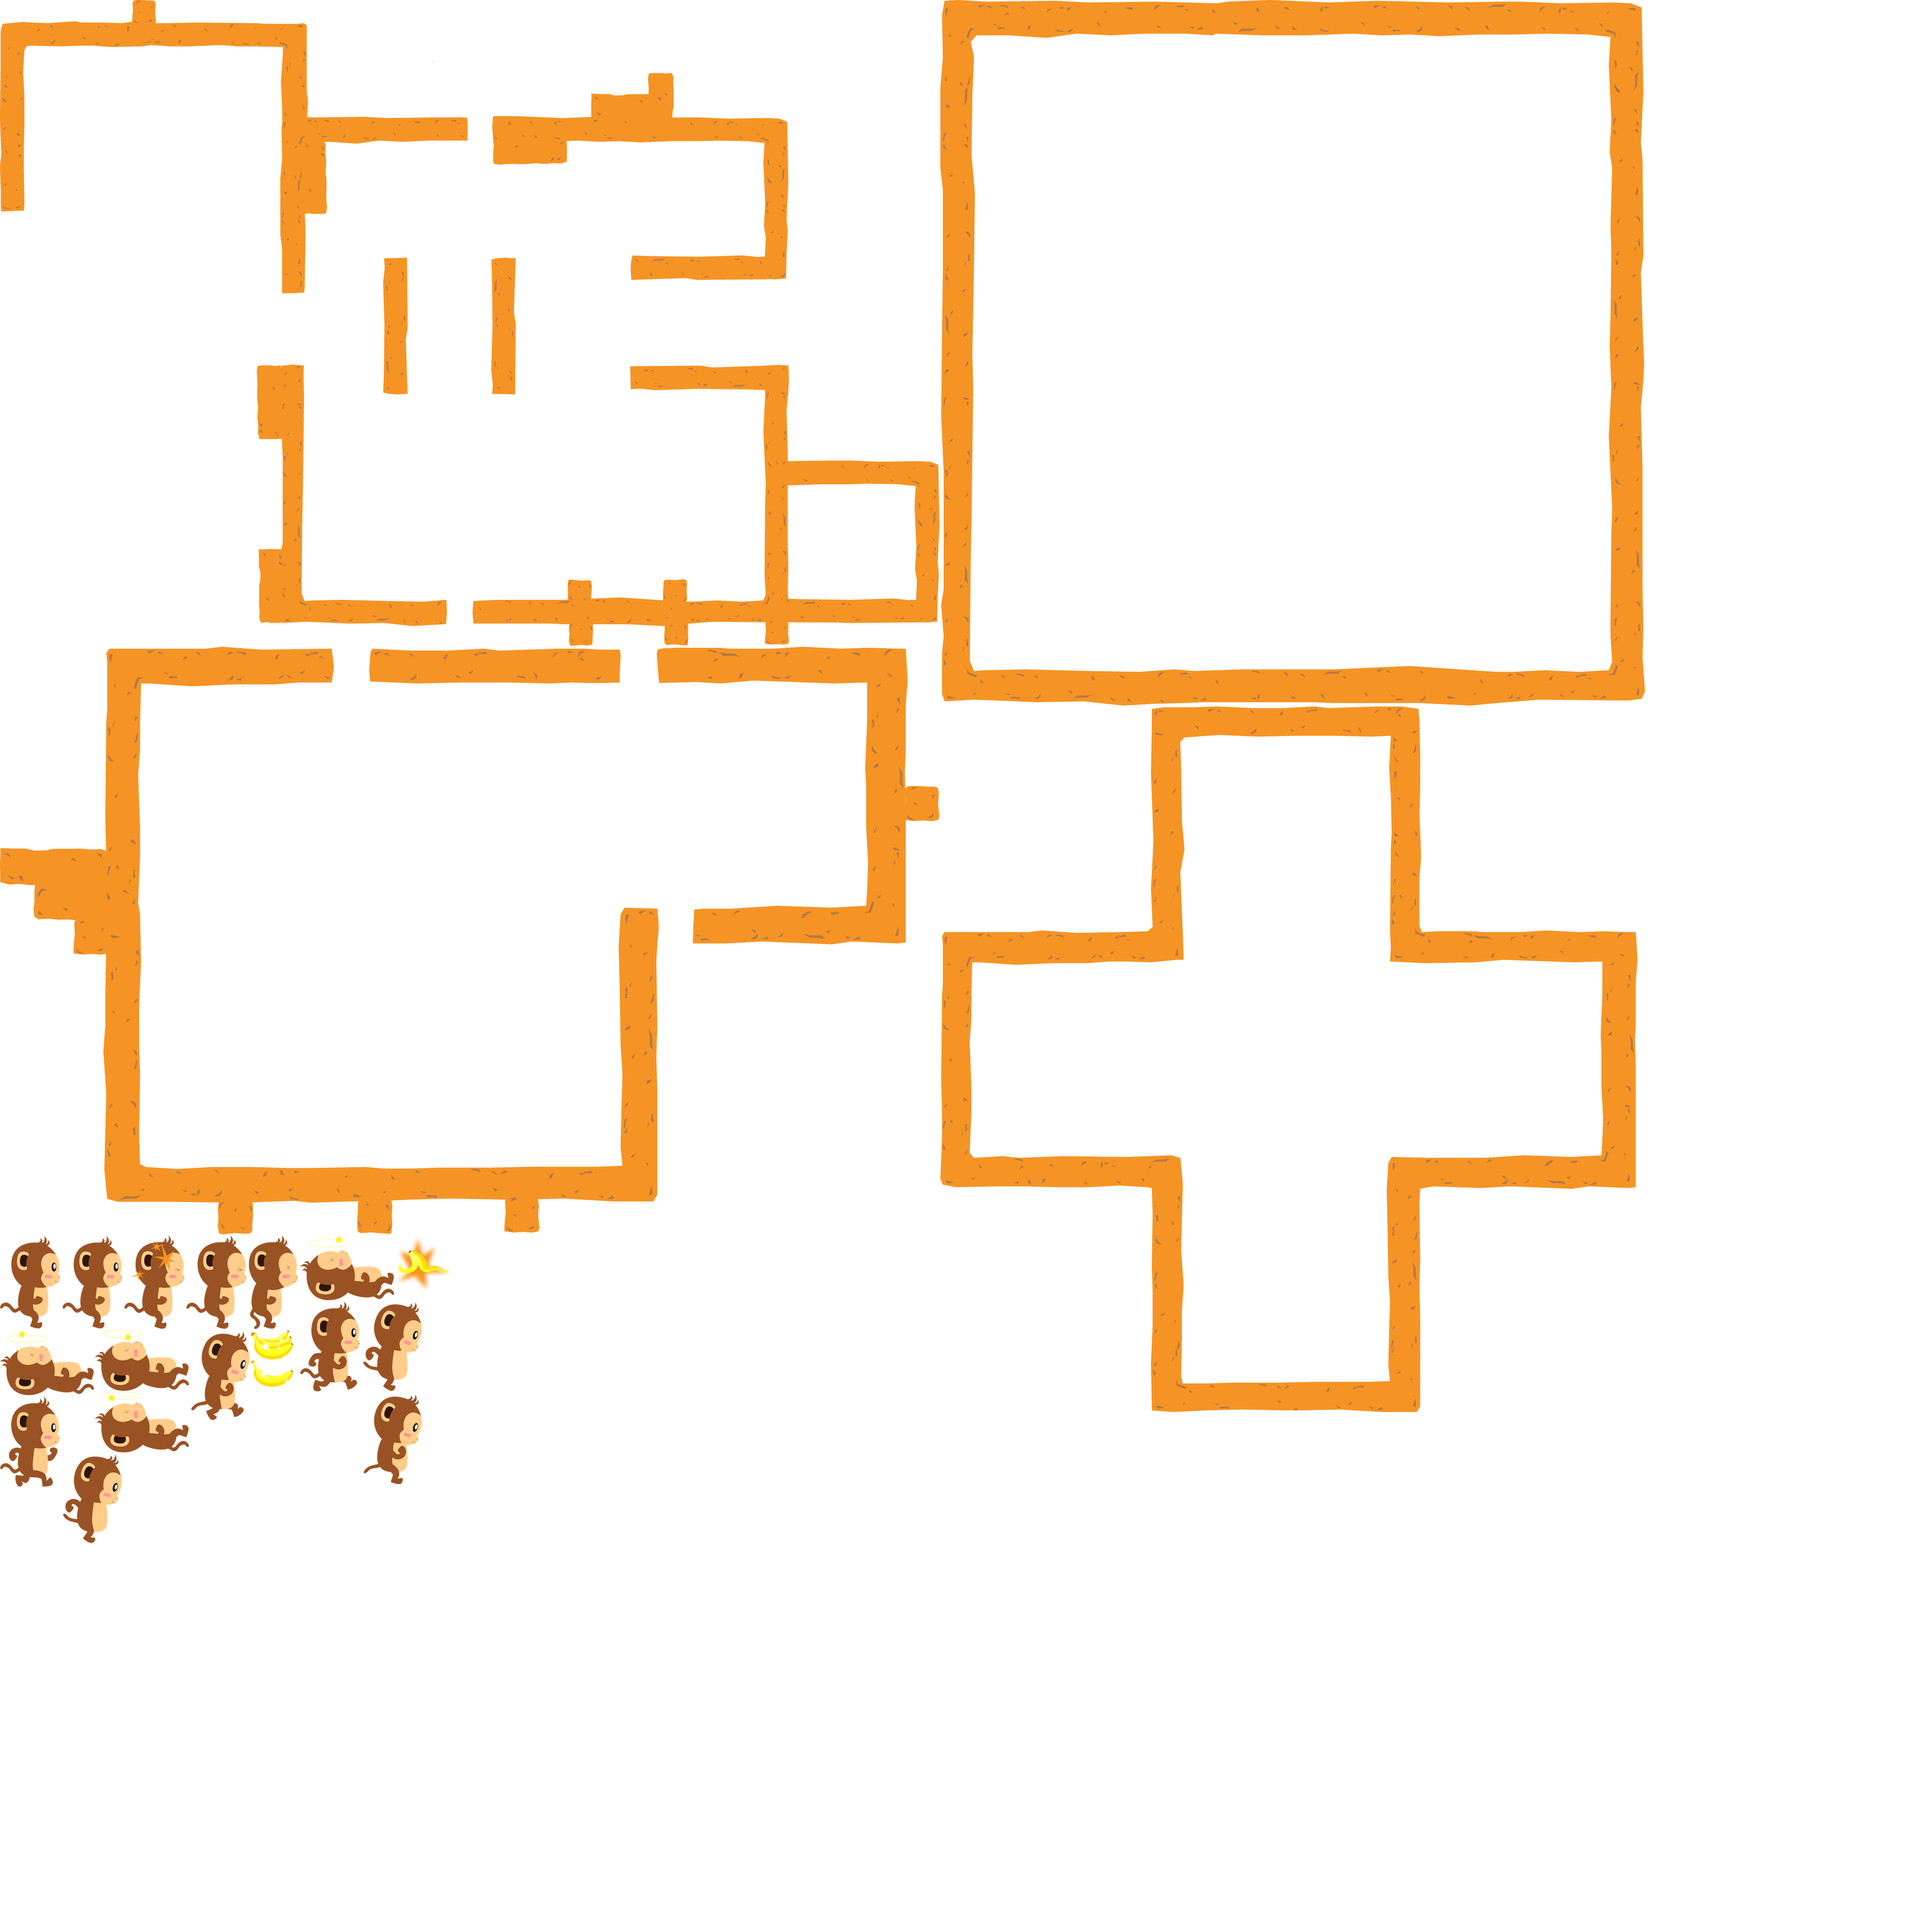
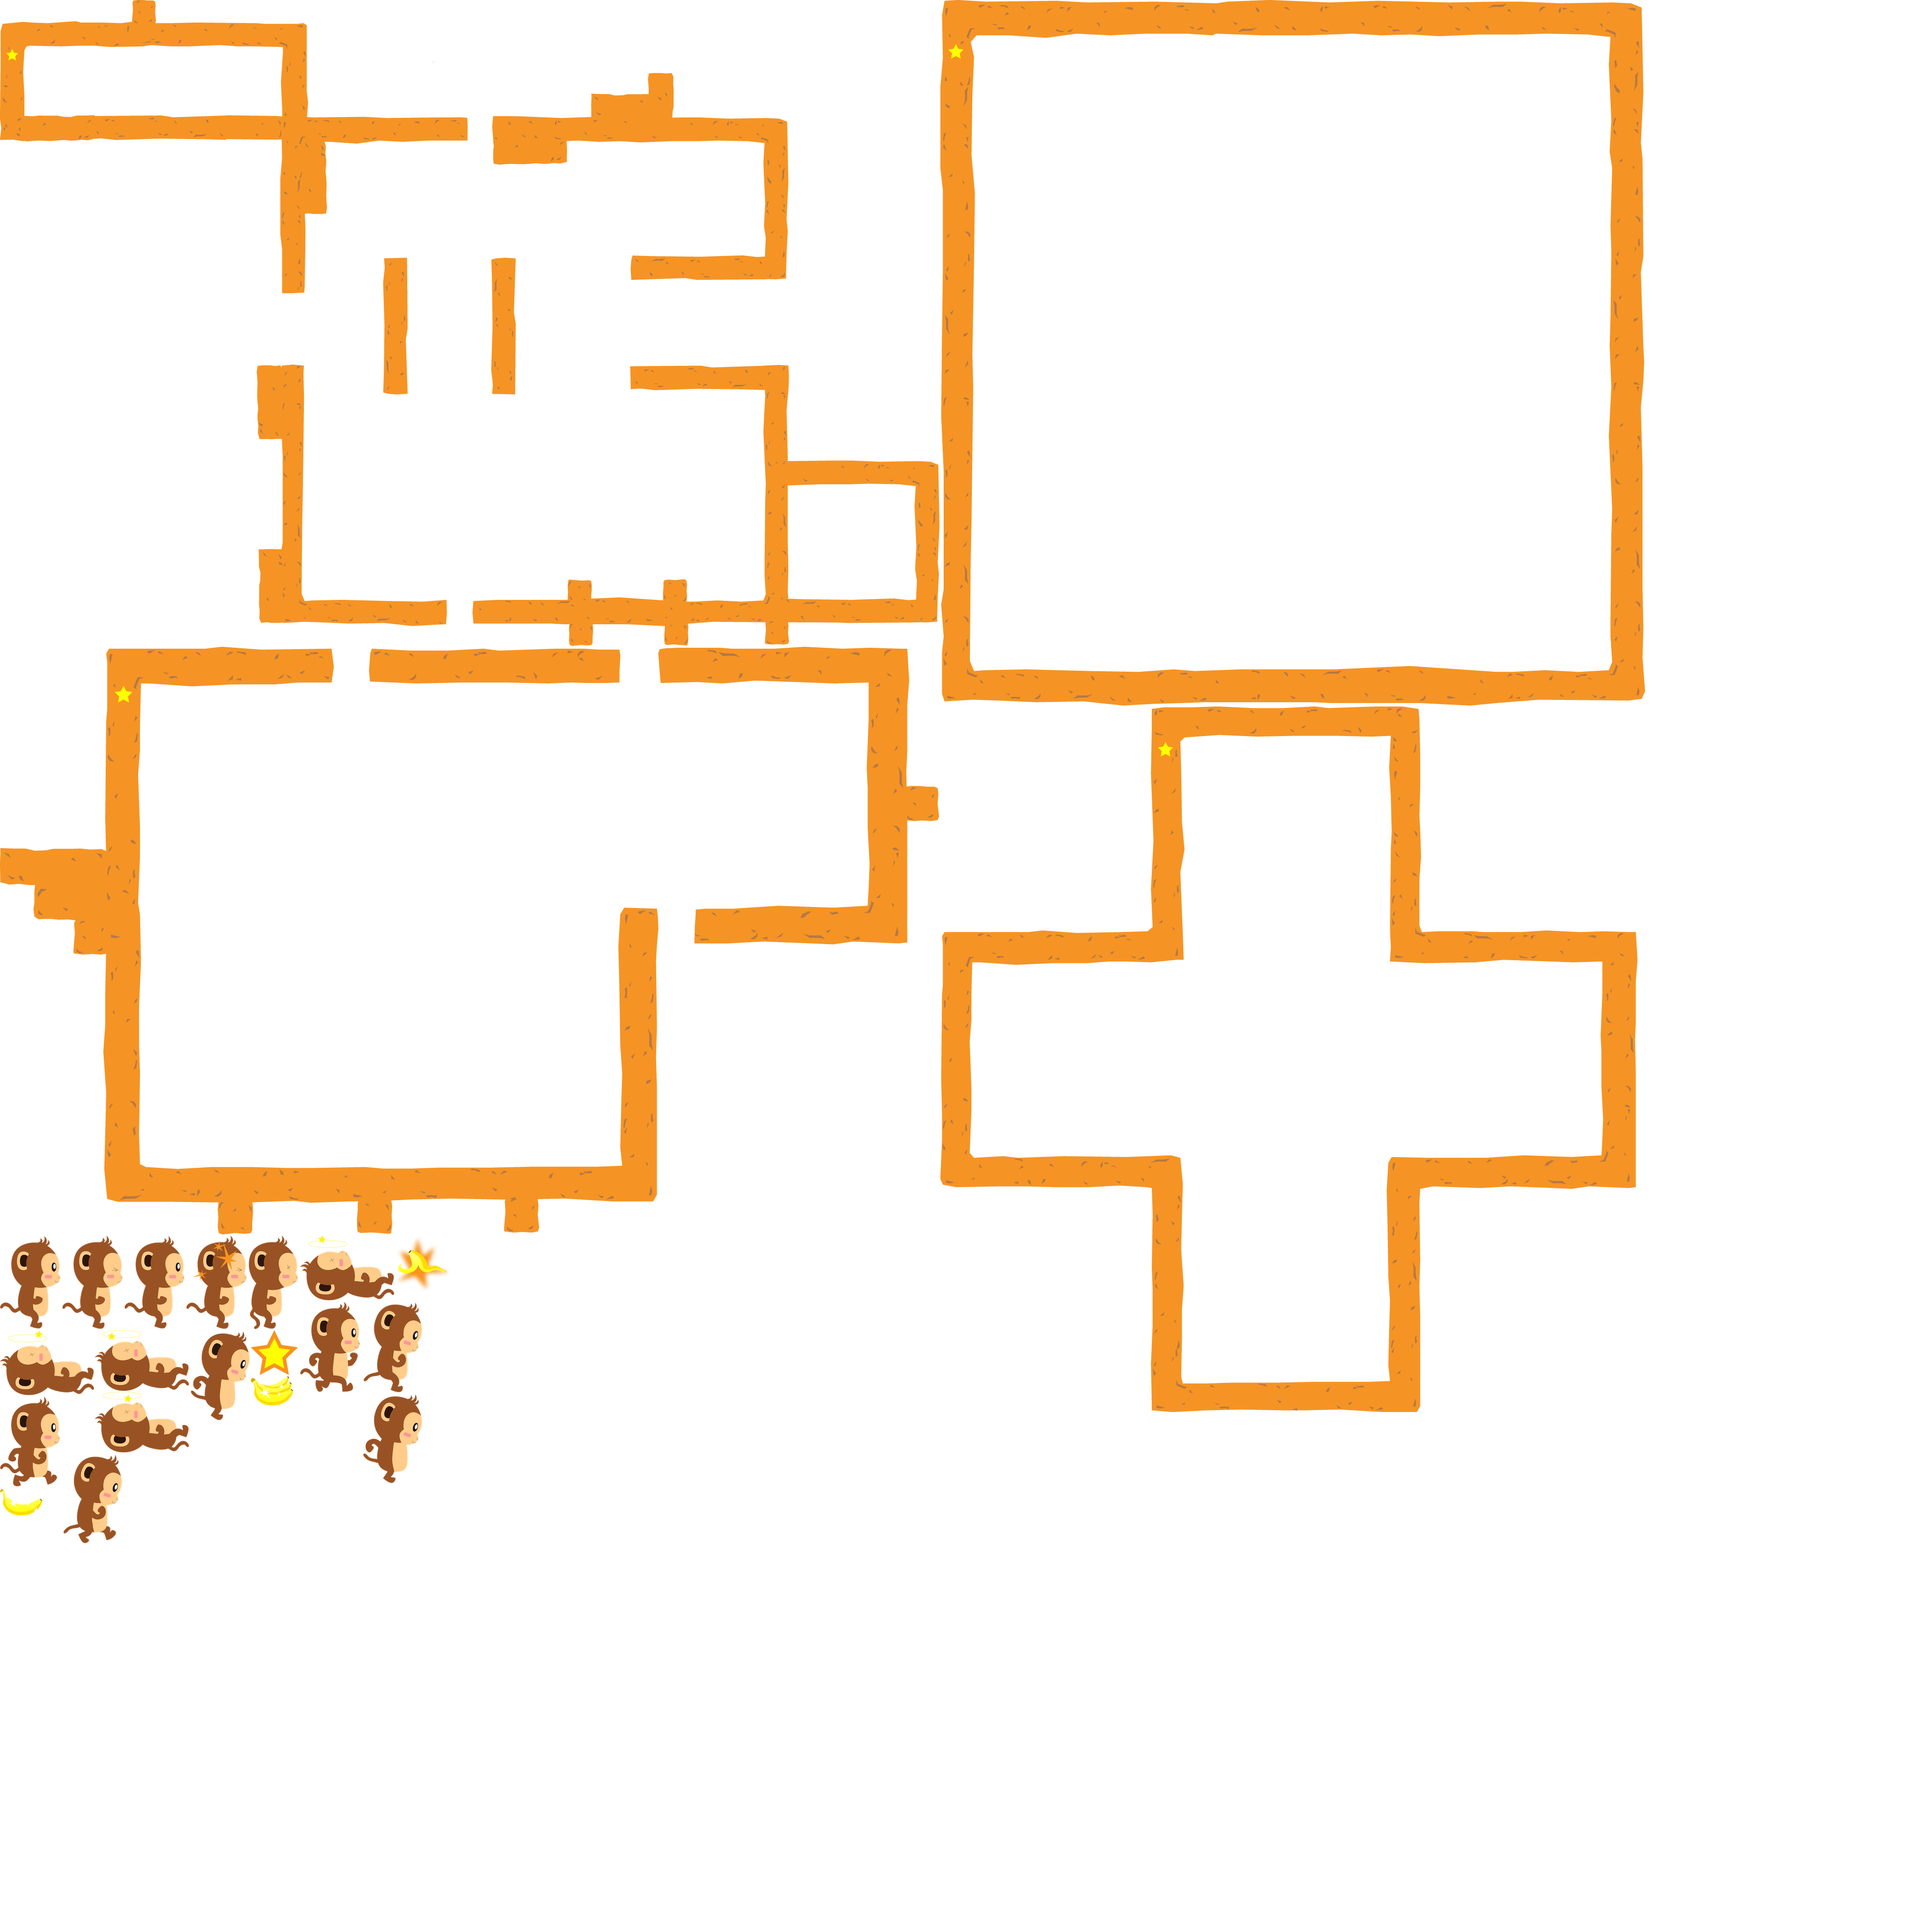
demo version

diff --git a/CollisionTest/CollisionTest/GameOverScene.mm b/CollisionTest/CollisionTest/GameOverScene.mm
@@ -11,43 +11,48 @@
 #import "MainMenuScene.h"
 
 @implementation GameOverScene
-@synthesize layer = _layer;
-CCSprite *_background;
+CCSprite *gameoverbg;
+bool congrats;
+int curLevel;
 
-- (id)init {
++(CCScene *) scene
+{
+	// 'scene' is an autorelease object.
+	CCScene *scene = [CCScene node];
+	
+	// 'layer' is an autorelease object.
+	GameOverScene *layer = [GameOverScene node];
+	
+	// add layer as a child to scene
+	[scene addChild: layer];
+	
+	// return the scene
+	return scene;
+}
+
++(CCScene *) scene:(bool)didpass withLevel:(int)level
+{
+  congrats = didpass;
+  curLevel = level;
+  return [self scene];
   
-  if ((self = [super init])) {
-    self.layer = [GameOverLayer node];
-    [self addChild:_layer];
-  }
-  return self;
 }
 
-- (void)dealloc {
-  [_layer release];
-  _layer = nil;
-  [super dealloc];
-}
-
-@end
-
-@implementation GameOverLayer
-@synthesize label = _label;
 
 -(id) init
 {
-  if( (self=[super initWithColor:ccc4(255,255,255,255)] )) {
+  if( (self=[super init] )) {
     
     CGSize winSize = [[CCDirector sharedDirector] winSize];
-    _background = [CCSprite spriteWithFile: @"Game Over screen.png"];
-    _background.position = ccp(winSize.width/2, winSize.height/2);
-    [self addChild:_background];
+    CCSprite *blueBG = [CCSprite spriteWithFile:@"Canyon background blue.png"];
+    blueBG.anchorPoint = ccp(0,0);
+    blueBG.position = ccp(0,0);
+    [self addChild:blueBG];
+    gameoverbg = congrats ? [CCSprite spriteWithFile: @"Congrats screen.png"] :
+                            [CCSprite spriteWithFile: @"Oops screen.png"];
+    gameoverbg.position = ccp(winSize.width/2, winSize.height/2);
+    [self addChild:gameoverbg];
     
-    self.label = [CCLabelTTF labelWithString:@"" fontName:@"Arial" fontSize:32];
-    _label.color = ccc3(0,0,0);
-    _label.position = ccp(winSize.width/2, winSize.height/2);
-    [self addChild:_label];
-
     CCLayer *menuLayer = [[CCLayer alloc] init];
     [self addChild:menuLayer];
     
@@ -56,16 +61,25 @@ CCSprite *_background;
                                      selectedImage:@"Home button.png"
                                      target:self
                                      selector:@selector(goHome)];
-    home.position = ccp(-winSize.width/5,-winSize.height/4);
+    home.position = ccp(-winSize.width/5, 0);
     
     CCMenuItemImage *restart = [CCMenuItemImage
                                   itemWithNormalImage:@"Restart button.png"
                                   selectedImage:@"Restart button.png"
                                   target:self
                                   selector:@selector(restart)];
-    restart.position = ccp(winSize.width/5,-winSize.height/4);
+    restart.position = ccp(-winSize.width/5,-winSize.height/8);
     
-    CCMenu *menu = [CCMenu menuWithItems: home, restart, nil];
+    CCMenuItemImage *next = [CCMenuItemImage
+                                itemWithNormalImage:@"Next button.png"
+                                selectedImage:@"Next button.png"
+                                target:self
+                                selector:@selector(nextLevel)];
+    next.position = ccp(-winSize.width/5,-winSize.height/4);
+    
+    CCMenu *menu = (congrats && (curLevel != 4)) ? [CCMenu menuWithItems: home, restart, next, nil]
+                            : [CCMenu menuWithItems: home, restart, nil];
+
     [menuLayer addChild: menu];
   }
   return self;
@@ -76,6 +90,10 @@ CCSprite *_background;
   [[CCDirector sharedDirector] replaceScene:[HelloWorldLayer scene]];
 }
 
+-(void)nextLevel
+{
+  [[CCDirector sharedDirector] replaceScene:[HelloWorldLayer scene:curLevel+1]];
+}
 
 - (void)goHome {
   
@@ -84,8 +102,6 @@ CCSprite *_background;
 }
 
 - (void)dealloc {
-  [_label release];
-  _label = nil;
   [super dealloc];
 }
 

diff --git a/CollisionTest/CollisionTest/HelloWorldLayer.mm b/CollisionTest/CollisionTest/HelloWorldLayer.mm
@@ -58,7 +58,7 @@ bool pass;
 +(CCScene *) scene:(int)withLevel
 {
   level = withLevel;
-  NSLog(@"level is %d", level);
+  //NSLog(@"level is %d", level);
   pass = false;
   return [self scene];
   
@@ -153,7 +153,7 @@ bool pass;
 // Add new update method
 - (void)update:(ccTime)dt {
   
-  //CGSize windowSize = [[CCDirector sharedDirector] winSize];
+  CGSize winSize = [[CCDirector sharedDirector] winSize];
   
   // Incrementing the position of the background parallaxnode
   CGPoint backgroundScrollVel = ccp(-100, 0);
@@ -178,20 +178,22 @@ bool pass;
   // Add objects to path
   //[self nextObject:dt];
   
-//  if ([plushy passLevel]) {
-//    pass = true;
-//    // drop something on the screen to show that u passed the level
-//    //NSLog(@"passsss!");
-//  }
+  if ([plushy passLevel] && pass == false) {
+    pass = true;
+    // drop something on the screen to show that u passed the level
+    //NSLog(@"passsss!");
+    CCSprite* star = [CCSprite spriteWithFile:@"Star.png"];
+    star.position = ccp(winSize.width*0.8, winSize.height*0.8);
+    [_background addChild:star];
+  }
   
   if ([plushy ccNode].position.y < 0 || [plushy isDead])
   {
     [[GB2Engine sharedInstance] deleteAllObjects];
     [plushy reset];
     // if pass, show one screen. otherwise show the other, modify gameover scene
-    GameOverScene *gameOverScene = [GameOverScene node];
-    //[gameOverScene.layer.label setString:@"Restart in 3 seconds"];
-    [[CCDirector sharedDirector] replaceScene:gameOverScene];
+
+    [[CCDirector sharedDirector] replaceScene:[GameOverScene scene:pass withLevel:level]];
   }
 }
 

diff --git a/CollisionTest/CollisionTest/GameOverScene.h b/CollisionTest/CollisionTest/GameOverScene.h
@@ -8,14 +8,16 @@
 
 #import "cocos2d.h"
 
-@interface GameOverLayer : CCLayerColor {
-  CCLabelTTF *_label;
-}
-@property (nonatomic, retain) CCLabelTTF *label;
-@end
+//@interface GameOverLayer : CCLayerColor {
+//  CCLabelTTF *_label;
+//}
+//@property (nonatomic, retain) CCLabelTTF *label;
+//@end
 
-@interface GameOverScene : CCScene {
-  GameOverLayer *_layer;
+@interface GameOverScene : CCLayer {
+  
 }
-@property (nonatomic, retain) GameOverLayer *layer;
+
++(CCScene *) scene;
++(CCScene *) scene:(bool)didpass withLevel:(int)level;
 @end

diff --git a/CollisionTest/CollisionTest/IntroLayer.mm b/CollisionTest/CollisionTest/IntroLayer.mm
@@ -44,8 +44,8 @@
 	CCSprite *background;
 	
 	if( UI_USER_INTERFACE_IDIOM() == UIUserInterfaceIdiomPhone ) {
-		background = [CCSprite spriteWithFile:@"Plushy Pals.png"];
-		background.rotation = 90;
+		background = [CCSprite spriteWithFile:@"Loading screen.png"];
+		//background.rotation = 90;
 	} else {
 		//background = [CCSprite spriteWithFile:@"Default-Landscape~ipad.png"];
 	}
